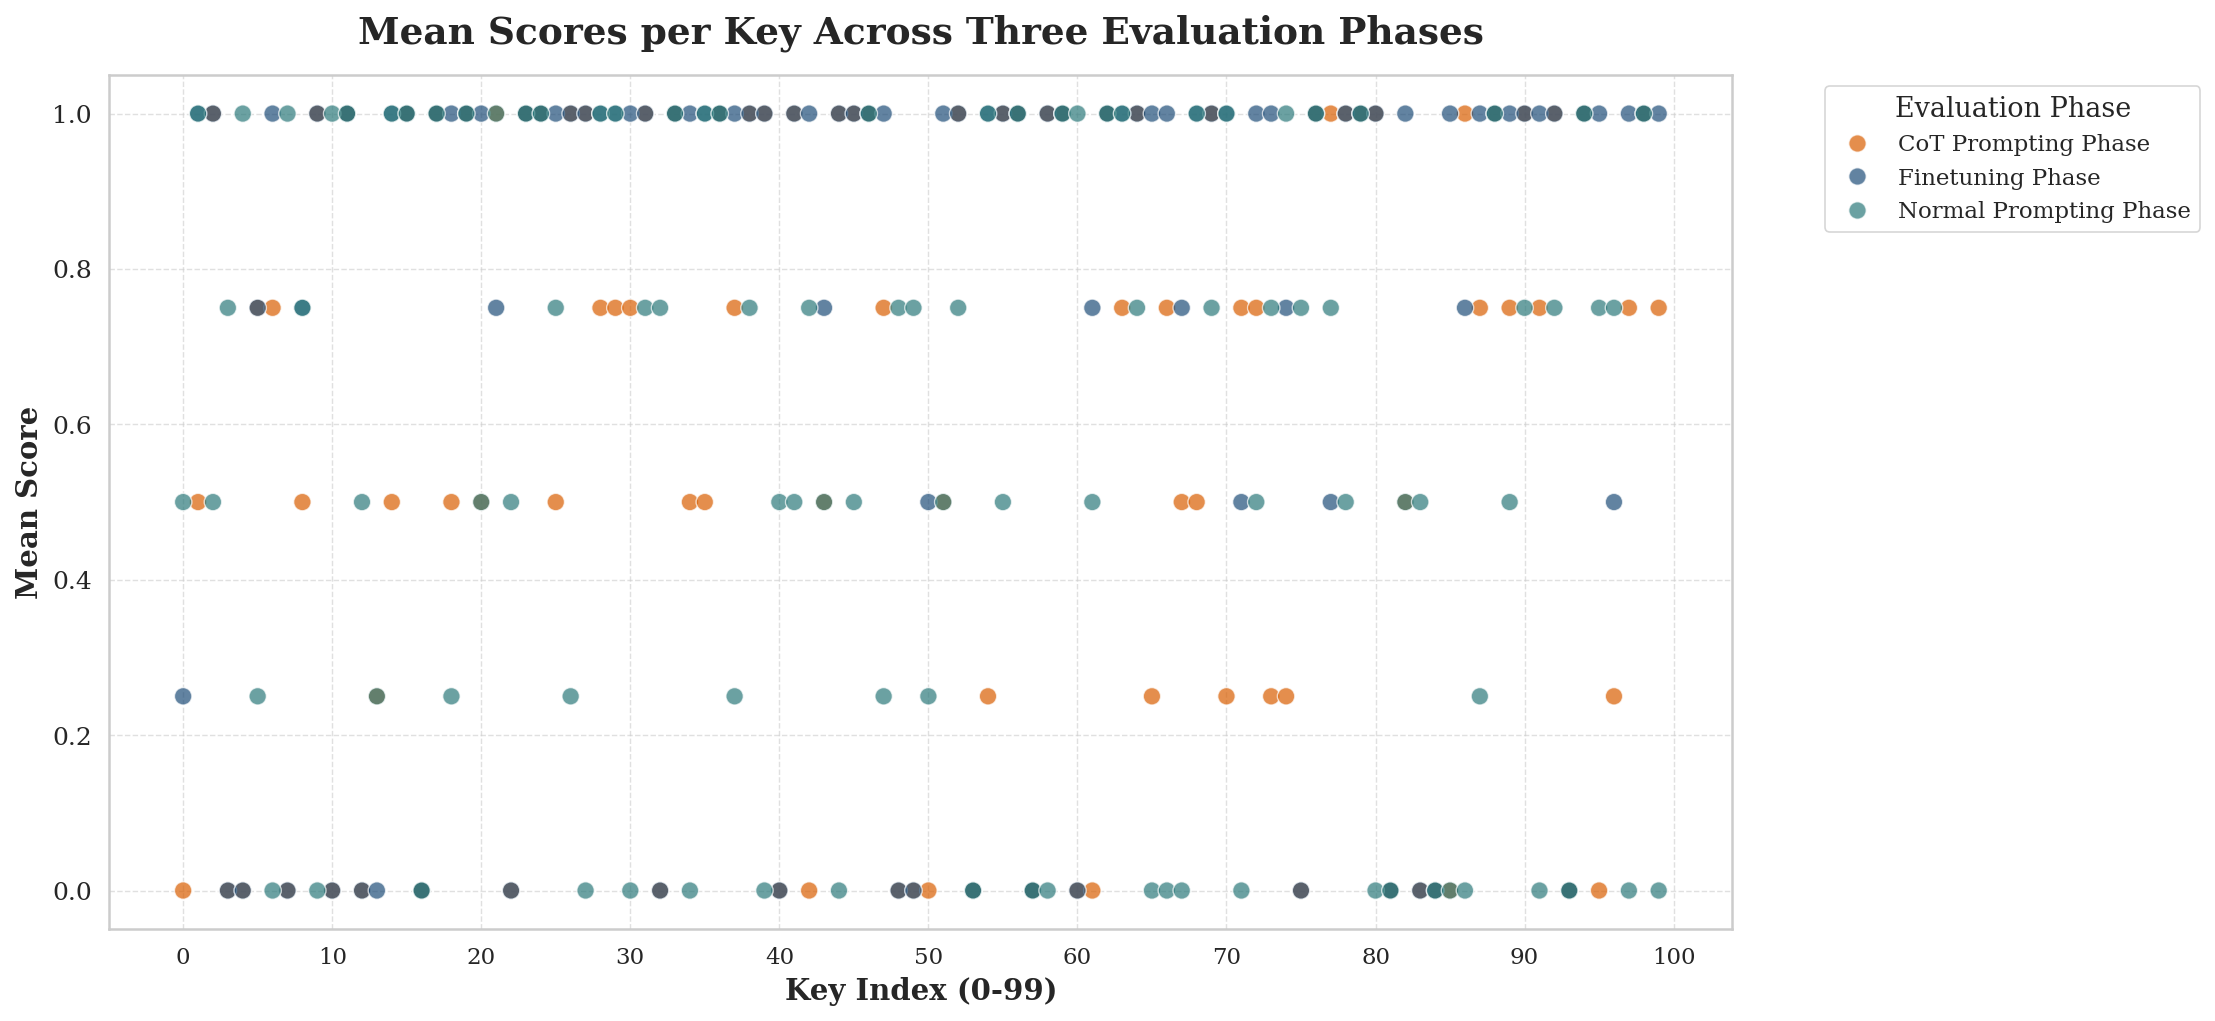
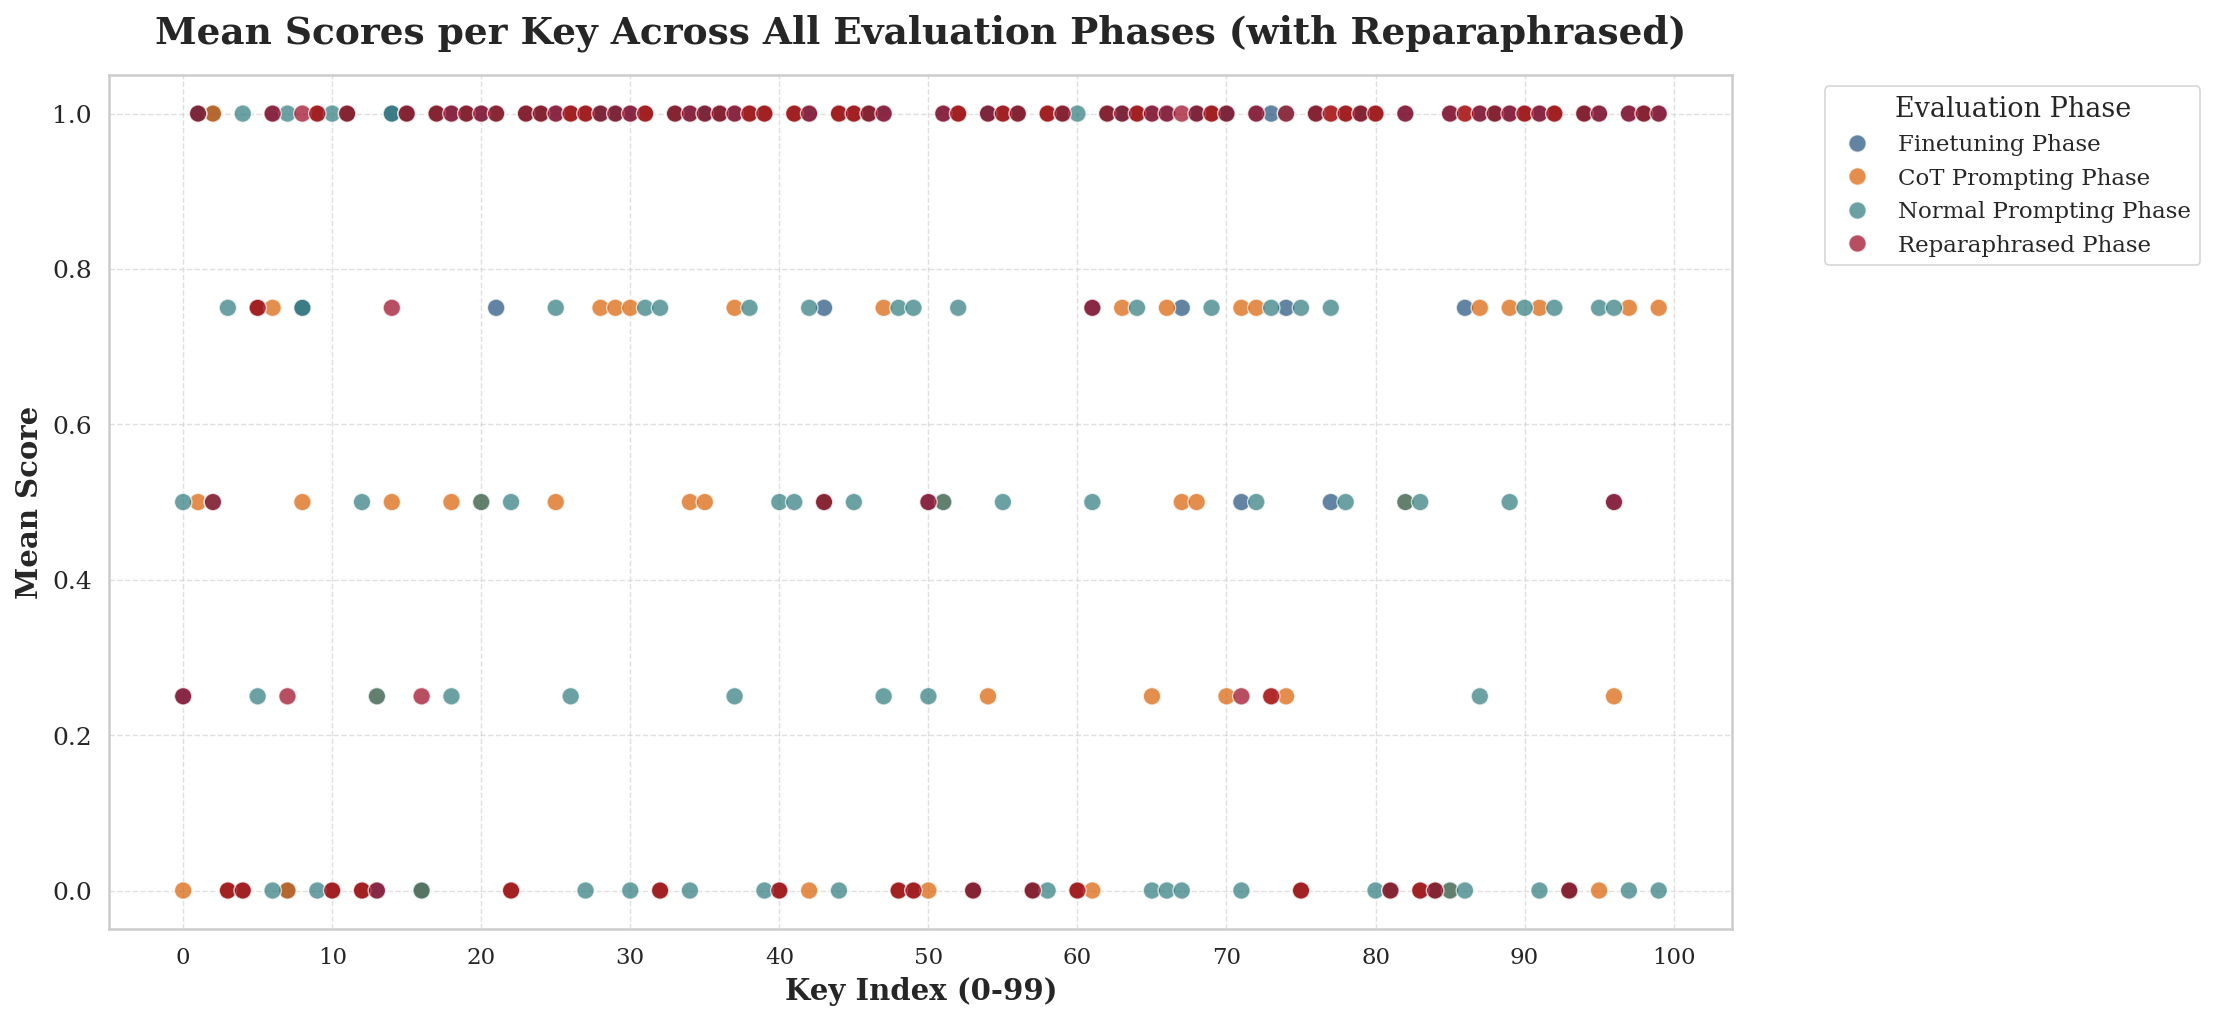
Edited README

diff --git a/README.md b/README.md
@@ -18,7 +18,7 @@ This project demonstrates a three-phase approach to improving mathematical reaso
 | Phase 2 | Chain of Thought | +15-20% | Moderate gain |
 | Phase 3 | GRPO Fine-tuning | +40-50% | Significant gain |
 
-![All Evaluation Comparison](https://raw.githubusercontent.com/ajheshbasnet/grpo_qwen0.5b_finetuned/main/eval_graphs/all_evaluation.png)
+![All Evaluation Comparison](eval_graphs/all_evaluation.png)
 
 ## Project Structure
 
@@ -30,6 +30,7 @@ Ninebar/
 │   ├── normal_all.png         # Phase 1 results
 │   ├── cot_all.png            # Phase 2 results
 │   ├── after_finetune_all.png # Phase 3 results
+│   ├── after_finetune_reparaphr.png # Phase 3 on paraphrased questions
 │   ├── all_evaluation.png     # Combined comparison
 │   ├── performance_gap.png    # Performance gap analysis
 │   └── mean_std_scatter.png   # Variance analysis
@@ -45,7 +46,7 @@ We created a comprehensive synthetic dataset focusing on mathematical reasoning 
 
 - **Training Set**: 1,000 examples (difficulty levels 1-7)
 - **Evaluation Set**: 100 examples (difficulty levels 5-10)
-- **Paraphrased Eval Set**: 100 examples for robustness testing
+- **Paraphrased Eval Set**: 100 examples for robustness testing (same questions with different wording)
 
 ### Question Templates
 
@@ -134,7 +135,7 @@ Each example contains:
 - Evaluated on 100-question test set
 
 **Results**:
-![Phase 1 - Normal Prompting](https://raw.githubusercontent.com/ajheshbasnet/grpo_qwen0.5b_finetuned/main/eval_graphs/normal_all.png)
+![Phase 1 - Normal Prompting](eval_graphs/normal_all.png)
 
 ### Phase 2: Chain of Thought Prompting
 
@@ -146,7 +147,7 @@ Each example contains:
 - Evaluated on identical 100-question test set for fair comparison
 
 **Results**:
-![Phase 2 - Chain of Thought](https://raw.githubusercontent.com/ajheshbasnet/grpo_qwen0.5b_finetuned/main/eval_graphs/cot_all.png)
+![Phase 2 - Chain of Thought](eval_graphs/cot_all.png)
 
 **Improvement**: Moderate gains over baseline through better prompting structure
 
@@ -180,9 +181,23 @@ GRPOConfig(
 **Evaluation**: Same 100-question test set
 
 **Results**:
-![Phase 3 - After Fine-tuning](https://raw.githubusercontent.com/ajheshbasnet/grpo_qwen0.5b_finetuned/main/eval_graphs/after_finetune_all.png)
+![Phase 3 - After Fine-tuning](eval_graphs/after_finetune_all.png)
 
 **Improvement**: Significant performance gains through policy optimization
+
+### Phase 3: Paraphrased Question Evaluation
+
+**Approach**: Testing fine-tuned model on paraphrased versions of evaluation questions
+
+**Methodology**:
+- Same 100 evaluation questions with different wording
+- Tests model robustness to phrasing variations
+- Ensures model learned reasoning patterns, not just memorization
+
+**Results**:
+![Phase 3 - Paraphrased Questions](eval_graphs/after_finetune_reparaphr.png)
+
+**Insight**: Model maintains strong performance even with rephrased questions, demonstrating genuine reasoning capability rather than memorization
 
 ## Performance Analysis
 
@@ -190,7 +205,7 @@ GRPOConfig(
 
 The mean and standard deviation across 4 generations per question:
 
-![Mean and Std Dev Scatter](https://raw.githubusercontent.com/ajheshbasnet/grpo_qwen0.5b_finetuned/main/eval_graphs/mean_std_scatter.png)
+![Mean and Std Dev Scatter](eval_graphs/mean_std_scatter.png)
 
 This analysis shows:
 - Consistency improvements across phases
@@ -201,7 +216,7 @@ This analysis shows:
 
 Comparison across all three phases:
 
-![Performance Gap](https://raw.githubusercontent.com/ajheshbasnet/grpo_qwen0.5b_finetuned/main/eval_graphs/performance_gap.png)
+![Performance Gap](eval_graphs/performance_gap.png)
 
 Key insights:
 - Phase 1 establishes baseline capabilities
@@ -219,8 +234,7 @@ Key insights:
 
 ```bash
 # Clone the repository
-git clone <repository-url>
-cd Ninebar
+git clone https://github.com/ajheshbasnet/grpo_qwen0.5b_finetuned.git
 
 # Create virtual environment
 python -m venv venv
@@ -239,7 +253,8 @@ pip install datasets matplotlib wandb
 3. Run cells sequentially to:
    - Generate synthetic dataset
    - Load and configure the model
-   - Run Phase 1, 2, and 3 evaluations
+   - To Run Phase 1 (skip the training trainer.train() cell and go for the very last testing section),
+   -  Phase 2 edit the prompt with run step wise step, and Phase 3 after training the model. 
    - Train with GRPO
    - Generate evaluation graphs
 
@@ -248,7 +263,7 @@ pip install datasets matplotlib wandb
 ### Scoring
 - **Correct Answer**: 1 point
 - **Incorrect Answer**: 0 points
-- **Per Question**: Mean score across N generations (N=4 for Phases 1-2, N=8 for Phase 3)
+- **Per Question**: Mean score across N generations (N=4 for Evaluation and N = 8 for the Training)
 
 ### Metrics Tracked
 - Mean accuracy per question
@@ -263,19 +278,6 @@ pip install datasets matplotlib wandb
 3. **Consistency**: Fine-tuned model shows lower variance across generations
 4. **Template Difficulty**: Performance varies by question type and difficulty level
 5. **Small Model Potential**: Even 0.5B models can achieve good math reasoning with proper training
-
-## Citation
-
-If you use this project or dataset, please cite:
-
-```bibtex
-@misc{math_reasoning_grpo,
-  title={Math Reasoning with GRPO Fine-Tuning},
-  author={Your Name},
-  year={2024},
-  howpublished={\url{https://github.com/yourusername/Ninebar}}
-}
-```
 
 ## Contributing
 

diff --git a/AGENT_WORKFLOW.md b/AGENT_WORKFLOW.md
@@ -1,0 +1,35 @@
+# Agent Workflow
+
+This document outlines the workflow and tools used during the development of this project.
+
+## Development Process
+
+### Manual Implementation
+The majority of the project was implemented manually, including:
+- Dataset generation and synthetic data creation
+- Model configuration and LoRA setup
+- GRPO training pipeline implementation
+- Evaluation and testing procedures
+- Graph generation and analysis
+
+### AI-Assisted Components
+
+#### Google Colab Gemini
+Used for sanity checking the codebase:
+- Verified code logic and structure
+- Debugged potential issues in the training pipeline
+- Validated implementation approaches
+
+#### Claude AI
+Used for creating the mathematical template functions:
+- Developed the 15 mathematical reasoning templates (arithmetic, money, ratio, percentage, average, linear equations, etc.)
+- Assisted with the synthetic data generation logic
+- Helped structure the question-answer format for the dataset
+
+## Project Structure
+- All core development was done in `src/grpo_training.ipynb`
+- Evaluation graphs are stored in `eval_graphs/`
+- Documentation is in `README.md`
+
+## Notes
+This project represents a combination of manual implementation and selective AI assistance for specific components, particularly the mathematical template generation and code sanity checks.
